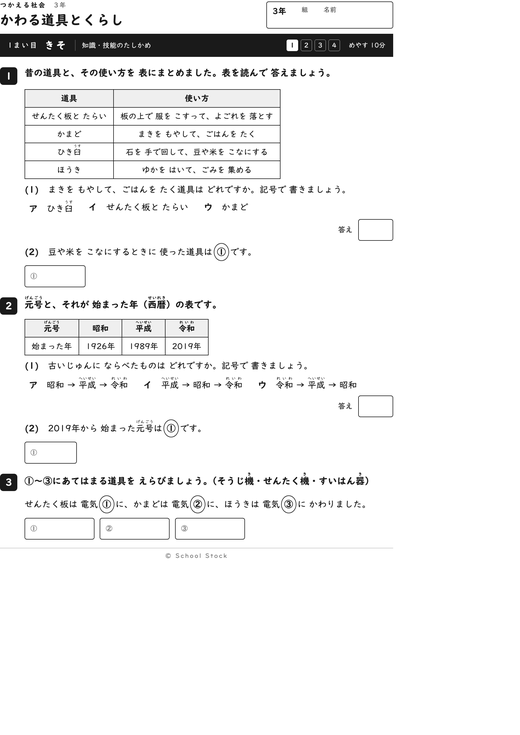
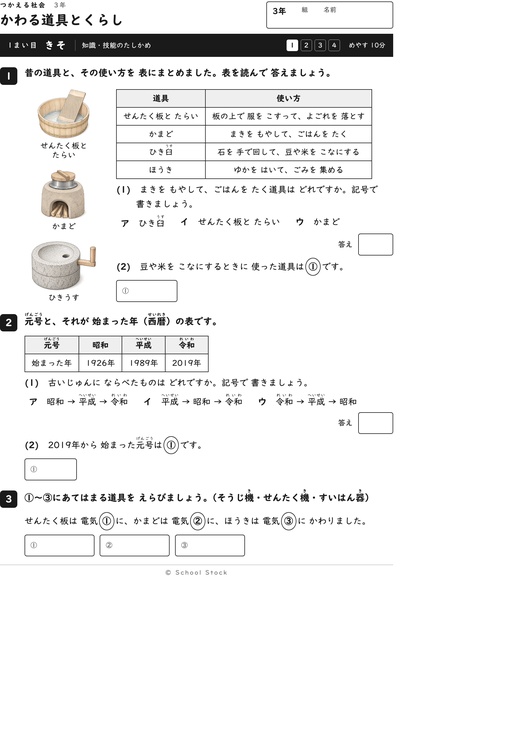
つかえるプリント：社会3年「かわる道具とくらし」の1まい目に昔の道具の絵3点（真壁進）を入れた版に差しかえ／素材棚に同じ3点を追加

Changed region(s): [[0.0, 0.1197, 0.7692, 0.7782], [0.6154, 0.2993, 0.7692, 0.3592]]

diff --git a/sozai/items.js b/sozai/items.js
@@ -43272,7 +43272,7 @@ const SOZAI = [
  },
  {
   "id": "s5_05_soran_boy",
-  "title": "小学生・ソーラン節をおどる子（あみを引く）",
+  "title": "小学生・ソーラン節をおどる子（片足をのばして低くかまえる）",
   "author": "riko",
   "type": "illust",
   "subject": "行事",
@@ -43287,7 +43287,7 @@ const SOZAI = [
    "スライド",
    "掲示"
   ],
-  "description": "はっぴとはちまきで、こしを低く落としてあみを引く動きをする子。文字なし・白背景。",
+  "description": "体育服の上に黒いはっぴをはおり、片足を横にのばしてこしを落とし、手を足にそって低くのばす子。文字なし・白背景。",
   "howto": "運動会のおたより、プログラム、係の打ち合わせのスライド、掲示に。",
   "tags": [
    "運動会",
@@ -43304,6 +43304,37 @@ const SOZAI = [
  },
  {
   "id": "s5_06_soran_girl",
+  "title": "小学生・ソーラン節をおどる子（あみを引き上げる）",
+  "author": "riko",
+  "type": "illust",
+  "subject": "行事",
+  "grade": "全学年",
+  "unit": "運動会・ソーラン節",
+  "scenes": [
+   "運動会・体育祭"
+  ],
+  "uses": [
+   "おたより",
+   "プログラム",
+   "スライド",
+   "掲示"
+  ],
+  "description": "足を大きく開いて体を前にたおし、両手であみを引き上げる動きをする子。文字なし・白背景。",
+  "howto": "運動会のおたより、プログラム、係の打ち合わせのスライド、掲示に。",
+  "tags": [
+   "運動会",
+   "体育祭",
+   "ソーラン節",
+   "はっぴ",
+   "はちまき",
+   "表現"
+  ],
+  "img": "img/s5_06_soran_girl.jpg",
+  "thumb": "img/s5_06_soran_girl_thumb.jpg",
+  "mono": "img/s5_06_soran_girl_mono.jpg"
+ },
+ {
+  "id": "s5_07_soran_wave",
   "title": "小学生・ソーラン節をおどる子（こぶしをつき上げる）",
   "author": "riko",
   "type": "illust",
@@ -43319,7 +43350,7 @@ const SOZAI = [
    "スライド",
    "掲示"
   ],
-  "description": "はっぴとはちまきで、右のこぶしを空につき上げる子。文字なし・白背景。",
+  "description": "こしを低く落とし、片方のこぶしをななめ上につき上げ、もう片方のこぶしをひざにおいて声を出す子。文字なし・白背景。",
   "howto": "運動会のおたより、プログラム、係の打ち合わせのスライド、掲示に。",
   "tags": [
    "運動会",
@@ -43327,40 +43358,7 @@ const SOZAI = [
    "ソーラン節",
    "はっぴ",
    "はちまき",
-   "表現",
-   "決めポーズ"
-  ],
-  "img": "img/s5_06_soran_girl.jpg",
-  "thumb": "img/s5_06_soran_girl_thumb.jpg",
-  "mono": "img/s5_06_soran_girl_mono.jpg"
- },
- {
-  "id": "s5_07_soran_wave",
-  "title": "小学生・ソーラン節をおどる子（波の動き）",
-  "author": "riko",
-  "type": "illust",
-  "subject": "行事",
-  "grade": "全学年",
-  "unit": "運動会・ソーラン節",
-  "scenes": [
-   "運動会・体育祭"
-  ],
-  "uses": [
-   "おたより",
-   "プログラム",
-   "スライド",
-   "掲示"
-  ],
-  "description": "こしを低くして、両うでを横にのばし、波をえがく動きをする子。文字なし・白背景。",
-  "howto": "運動会のおたより、プログラム、係の打ち合わせのスライド、掲示に。",
-  "tags": [
-   "運動会",
-   "体育祭",
-   "ソーラン節",
-   "はっぴ",
-   "はちまき",
-   "表現",
-   "波"
+   "表現"
   ],
   "img": "img/s5_07_soran_wave.jpg",
   "thumb": "img/s5_07_soran_wave_thumb.jpg",
@@ -43383,7 +43381,7 @@ const SOZAI = [
    "スライド",
    "掲示"
   ],
-  "description": "はっぴとはちまきの3人が、同じ低いかまえでそろっておどっている。文字なし・白背景。",
+  "description": "黒いはっぴとはちまきの3人が、片足をのばした低いかまえでそろっている。文字なし・白背景。",
   "howto": "運動会のおたより、プログラム、係の打ち合わせのスライド、掲示に。",
   "tags": [
    "運動会",
@@ -43540,7 +43538,7 @@ const SOZAI = [
    "スライド",
    "掲示"
   ],
-  "description": "長机にすわり、原こうを見ながらマイクに向かって話す放送委員の子。文字なし・白背景。",
+  "description": "長机にすわり、机の上の原こうに手をおいて、マイクに向かって話す放送委員の子。文字なし・白背景。",
   "howto": "運動会のおたより、プログラム、係の打ち合わせのスライド、掲示に。",
   "tags": [
    "運動会",
@@ -43764,7 +43762,7 @@ const SOZAI = [
    "スライド",
    "掲示"
   ],
-  "description": "ひざをすりむいた低学年の子のとなりにしゃがみ、背中に手をそえる係の子。横に救急箱がある。文字なし・白背景。",
+  "description": "ひざをすりむいてすわりこんだ低学年の子のとなりにしゃがみ、背中に手をそえる係の子。横に救急箱がある。文字なし・白背景。",
   "howto": "運動会のおたより、プログラム、係の打ち合わせのスライド、掲示に。",
   "tags": [
    "運動会",
@@ -43796,7 +43794,7 @@ const SOZAI = [
    "スライド",
    "掲示"
   ],
-  "description": "白い旗を上げる係の子と、スタートラインでかまえるふたり。文字なし・白背景。",
+  "description": "白い旗を上げる係の子と、スタートのかまえをするふたり。文字なし・白背景。",
   "howto": "運動会のおたより、プログラム、係の打ち合わせのスライド、掲示に。",
   "tags": [
    "運動会",
@@ -43905,5 +43903,103 @@ const SOZAI = [
   "img": "img/s5_24_sensei.jpg",
   "thumb": "img/s5_24_sensei_thumb.jpg",
   "mono": "img/s5_24_sensei_mono.jpg"
+ },
+ {
+  "id": "shakai3_dogu_sentaku_makabe",
+  "title": "せんたく板とたらい",
+  "author": "makabe",
+  "type": "illust",
+  "subject": "社会",
+  "grade": "3年",
+  "unit": "かわる道具とくらし",
+  "scenes": [
+   "昔のせんたくのしかたを知る"
+  ],
+  "uses": [
+   "説明・図解",
+   "プリント・ワークシート"
+  ],
+  "description": "木のたらいに、みぞのある木のせんたく板を立てかけた線画淡彩です。板のみぞと、たらいの側板とたががはっきり見えます。白黒で刷っても形で分かります。",
+  "howto": "昔の道具と今の電気せんたく機をくらべる学習や、資料館の見学の前後のプリントに使えます。",
+  "tags": [
+   "せんたく板",
+   "洗濯板",
+   "たらい",
+   "盥",
+   "昔の道具",
+   "昔のくらし",
+   "社会",
+   "3年",
+   "かわる道具とくらし"
+  ],
+  "img": "img/shakai3_dogu_sentaku_makabe.jpg",
+  "thumb": "img/shakai3_dogu_sentaku_makabe_thumb.jpg",
+  "mono": "img/shakai3_dogu_sentaku_makabe_mono.jpg"
+ },
+ {
+  "id": "shakai3_dogu_kamado_makabe",
+  "title": "かまどと羽釜",
+  "author": "makabe",
+  "type": "illust",
+  "subject": "社会",
+  "grade": "3年",
+  "unit": "かわる道具とくらし",
+  "scenes": [
+   "昔のごはんのたき方を知る"
+  ],
+  "uses": [
+   "説明・図解",
+   "プリント・ワークシート"
+  ],
+  "description": "土のかまどに羽釜をのせた線画淡彩です。羽釜のつばが穴のふちに乗り、正面のたき口にまきが見えます。火は描いていません。",
+  "howto": "かまどと電気すいはん器のくらべや、ごはんをたく手間を考える学習に使えます。",
+  "tags": [
+   "かまど",
+   "竈",
+   "羽釜",
+   "はがま",
+   "まき",
+   "昔の道具",
+   "昔のくらし",
+   "社会",
+   "3年",
+   "かわる道具とくらし"
+  ],
+  "img": "img/shakai3_dogu_kamado_makabe.jpg",
+  "thumb": "img/shakai3_dogu_kamado_makabe_thumb.jpg",
+  "mono": "img/shakai3_dogu_kamado_makabe_mono.jpg"
+ },
+ {
+  "id": "shakai3_dogu_usu_makabe",
+  "title": "ひき臼（石臼）",
+  "author": "makabe",
+  "type": "illust",
+  "subject": "社会",
+  "grade": "3年",
+  "unit": "かわる道具とくらし",
+  "scenes": [
+   "豆や米をこなにする道具を知る"
+  ],
+  "uses": [
+   "説明・図解",
+   "プリント・ワークシート"
+  ],
+  "description": "上下2段の石臼の線画淡彩です。上の石の穴と、横の木の取っ手が見えます。",
+  "howto": "資料館のひき臼体験の前後や、昔の道具の使い方を調べる学習に使えます。",
+  "tags": [
+   "ひき臼",
+   "ひきうす",
+   "石臼",
+   "いしうす",
+   "臼",
+   "昔の道具",
+   "昔のくらし",
+   "社会",
+   "3年",
+   "かわる道具とくらし"
+  ],
+  "img": "img/shakai3_dogu_usu_makabe.jpg",
+  "thumb": "img/shakai3_dogu_usu_makabe_thumb.jpg",
+  "mono": "img/shakai3_dogu_usu_makabe_mono.jpg"
  }
 ];

diff --git a/sozai/authors.js b/sozai/authors.js
@@ -2,7 +2,7 @@
 const AUTHORS = {
  "makabe": {
   "romaji": "Makabe",
-  "count": 125
+  "count": 128
  },
  "masuda": {
   "romaji": "Masuda",
